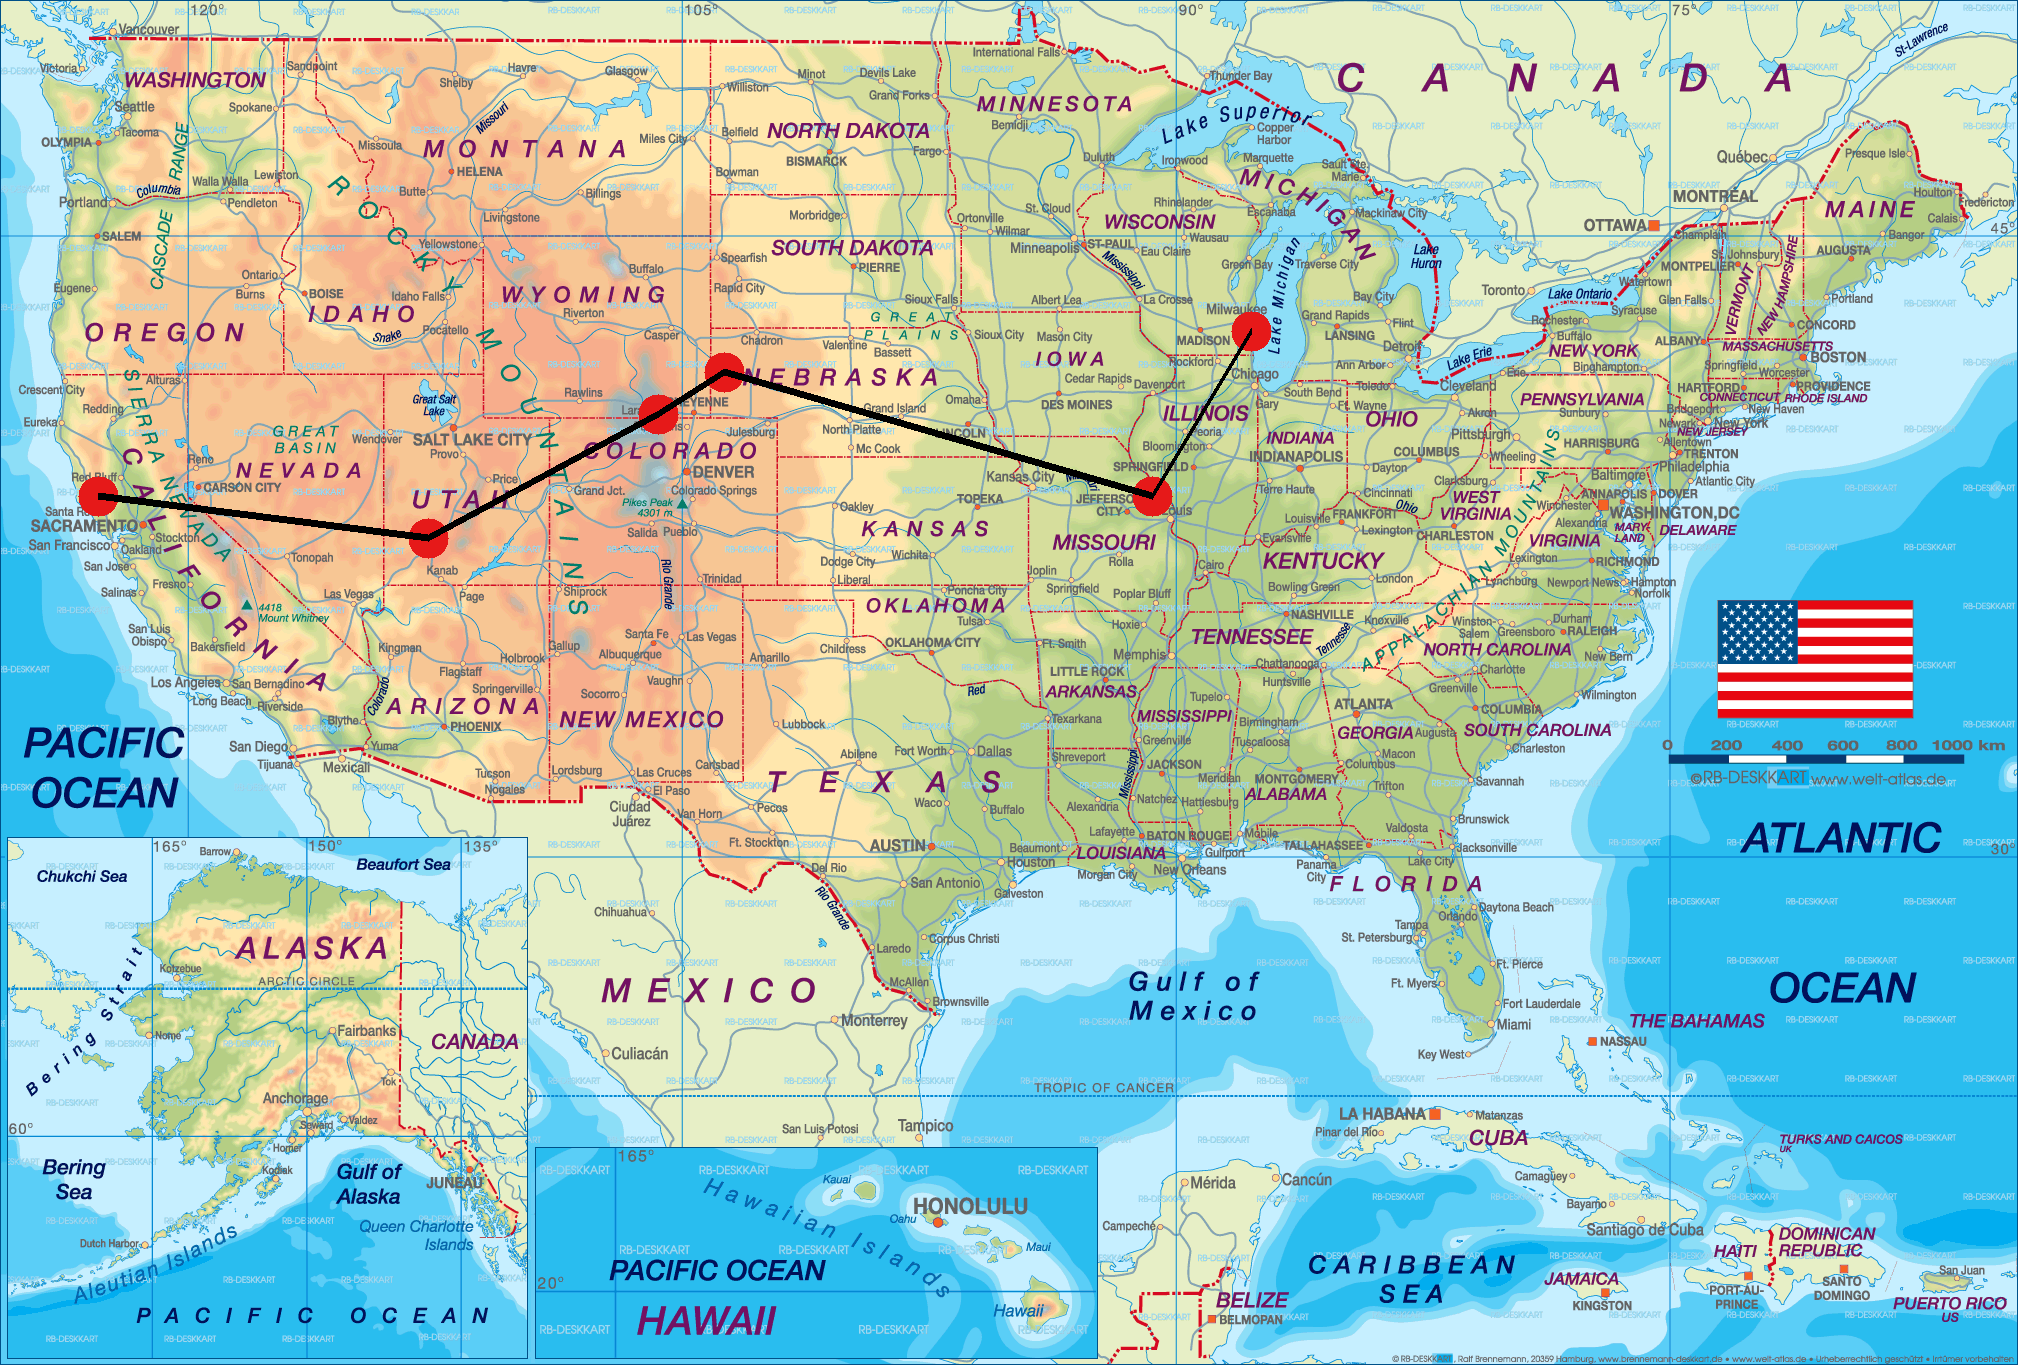
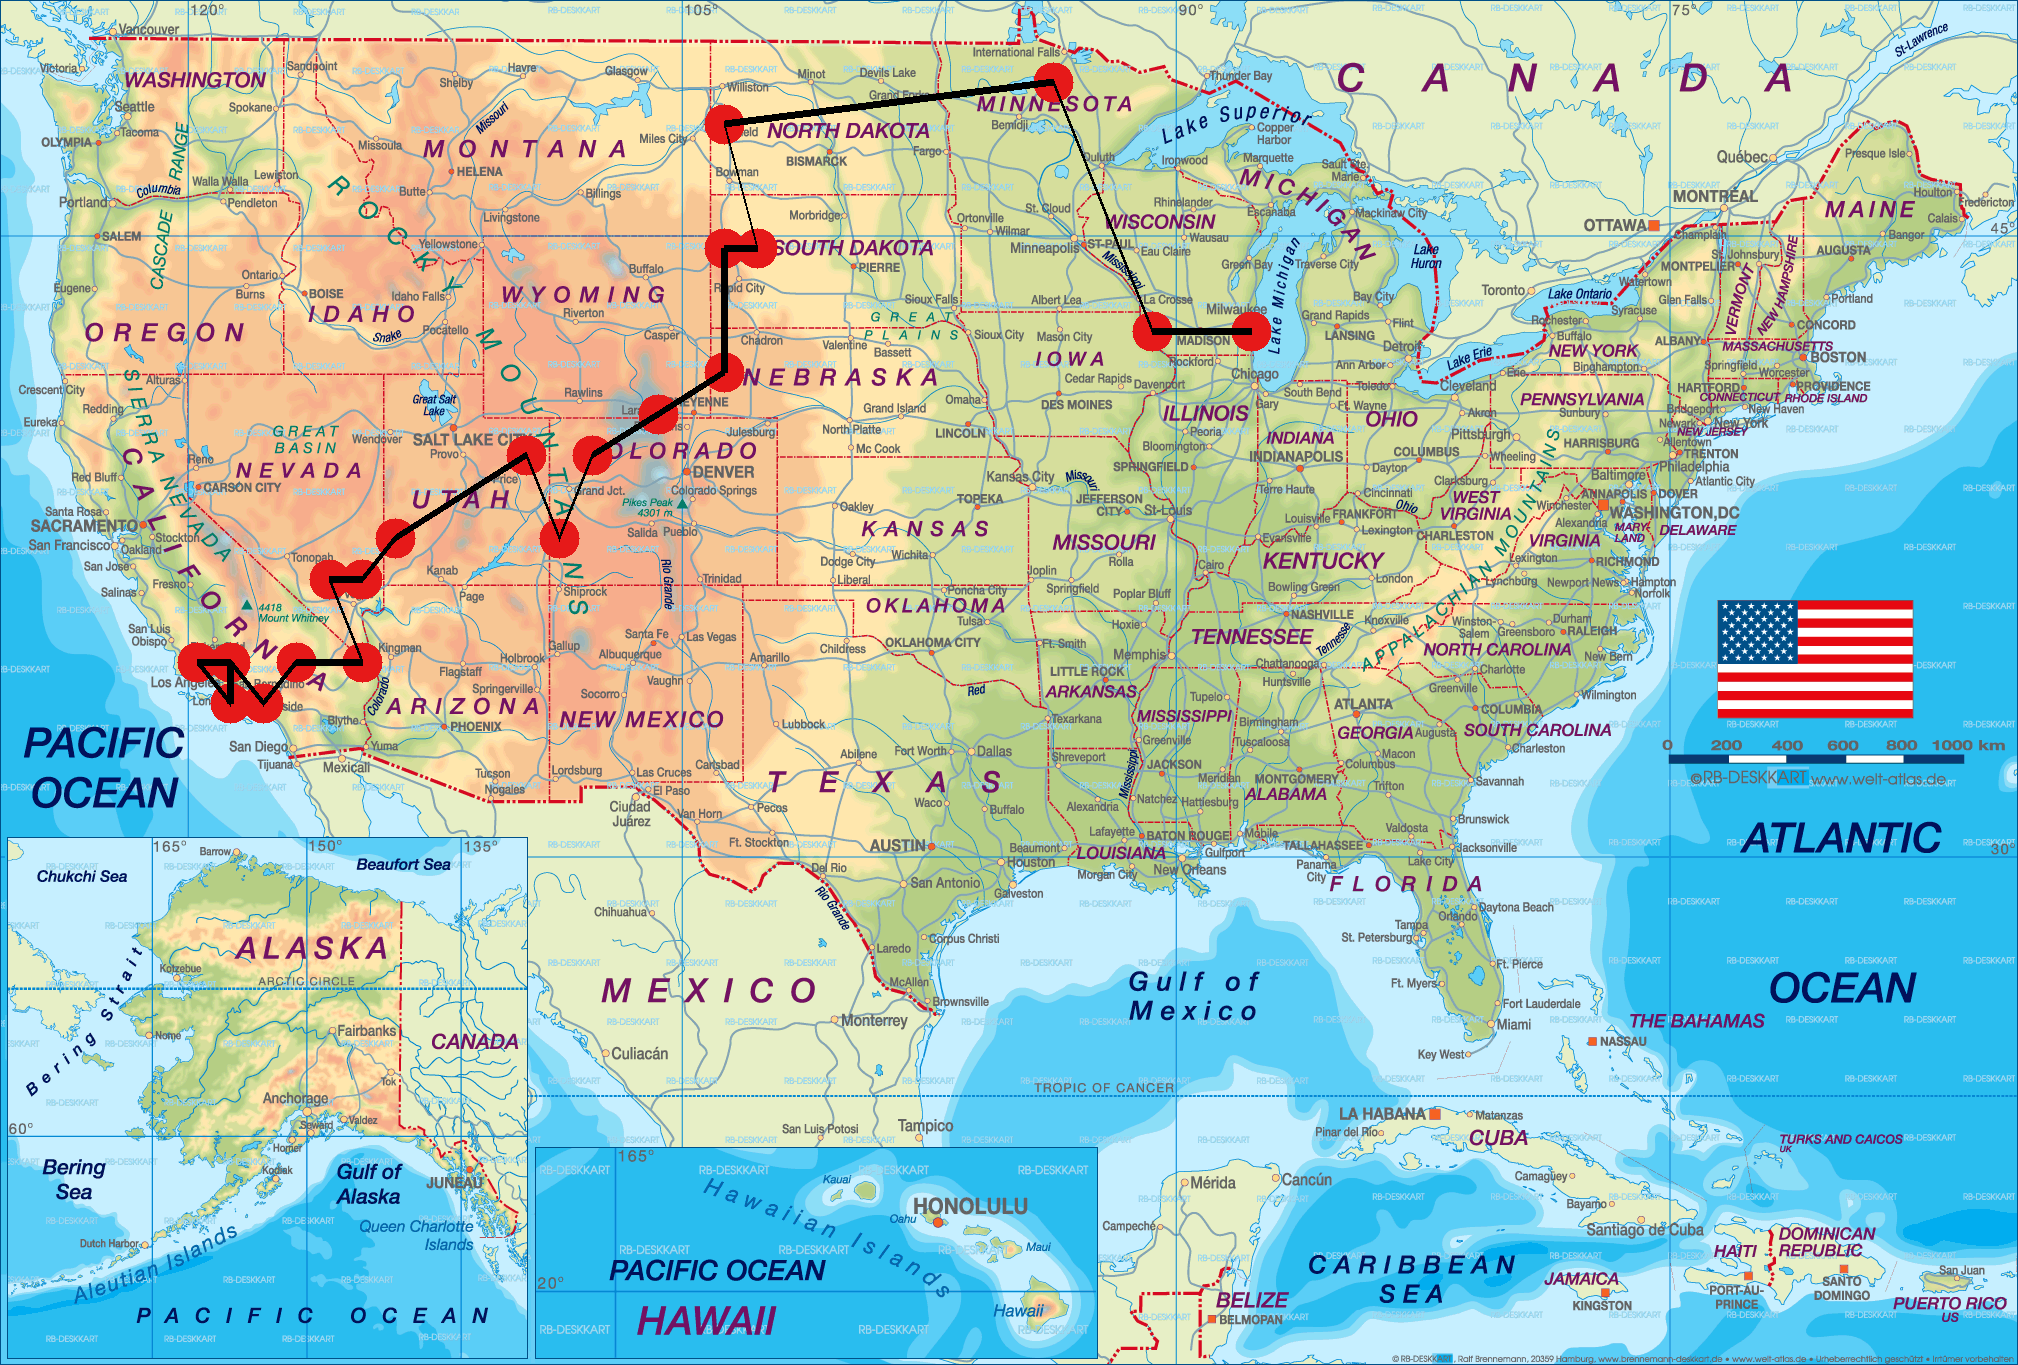
works

diff --git a/roadtripgraph.cpp b/roadtripgraph.cpp
@@ -175,7 +175,7 @@ void RoadTripGraph::printBFS(int start, int end) {
     temp1.pop_back();
     temp2.pop_back();
 
-    std::cout << " To get from " << temp1 << " to " << temp2 << " here is the route with the least attractions "<<std::endl;
+    std::cout << " To get from " << temp1 << " to " << temp2 << " here is the route while using BFS "<<std::endl;
     vector<Parsing::Location> path = BFS(start, end);
     static int counter = 1;
     for (Parsing::Location i: path)
@@ -307,8 +307,23 @@ std::pair<vector<Parsing::Location>, double> RoadTripGraph::Dijkstra(int start, 
 void RoadTripGraph::printDijkstra(int start, int end) {
     std::pair<vector<Parsing::Location>, double> p = Dijkstra(start, end);
 
-    for (Parsing::Location a : p.first) {
-        std::cout<<a.name<<", "<<a.state<<std::endl;
+    string temp1 = locations[start].state;
+    string temp2 = locations[end].state;
+    temp1.pop_back();
+    temp2.pop_back();
+
+    std::cout << " To get from " << temp1 << " to " << temp2 << " here is the route with the Dijkstra's algo " << std::endl;
+
+    static int counter = 1;
+    for (Parsing::Location i : p.first)
+    {
+        std::stringstream ss;
+        ss << counter;
+        string str = ss.str();
+
+        string temp = str + " -> " + i.name + ", " + i.state + "\n";
+        counter++;
+        std::cout << temp;
     }
     std::cout<<p.second<<" KM to "<<locations[end].name<<std::endl;
 }
@@ -483,8 +498,23 @@ void RoadTripGraph::runProgram(){
         endIdx = locationEndIdx[rand() % locationEndIdx.size()];
         vector<Parsing::Location> i = graph.KruskalsMST();
         vector<Parsing::Location> bfs = graph.BFS(startIdx, endIdx);
+        vector<Parsing::Location> djstrikasResult = graph.Dijkstra(startIdx,endIdx).first;
         graph.printBFS(startIdx, endIdx);
         graph.printDijkstra(startIdx, endIdx);
-        RoadTripGraph::drawImage(bfs);
+        std::cout << "===========================================================================" << std::endl;
+
+        string graph;
+        std::cout << "If you would like to see the path with Dijkstra's press 1  \n If you want to see the path with BFS press any other key" << std::endl;
+        std::cin >> graph;
+
+        if(graph == "1"){
+            RoadTripGraph::drawImage(djstrikasResult);
+        }
+        else{
+            RoadTripGraph::drawImage(bfs);
+        }
+
+            std::cout << "Check us_map1.png for your path " << std::endl;
+        
     }
 }

diff --git a/tests/testingAlgorithms.cpp b/tests/testingAlgorithms.cpp
@@ -46,3 +46,4 @@ TEST_CASE("Test_Neihboring_States","[fileio]"){
     }
    REQUIRE(secondTest);
 }
+
